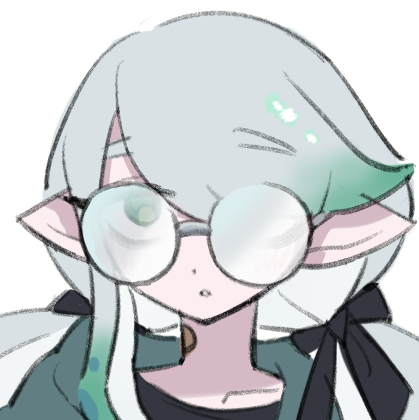
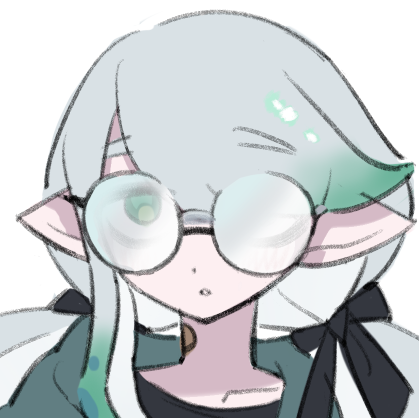
viper eng bio

diff --git a/data/oc-splatoon-en.js b/data/oc-splatoon-en.js
@@ -67,7 +67,7 @@ const SPLAT_CHARA_DATA_EN = {
             { Blade: "They met during the events in Splatoon 2, where a misunderstanding made them rivals for a while. They made up in the end and quickly became close friends. Axel often calls him 'B'." },
             { Xiu: "One of the bad friends who led Axel down the wrong path. Xiu has apologized, but Axel has never fully forgiven him, so things between them are still a bit awkward." },
             { Edd: "Axel barely counts him as a friend. Their personalities clash, so they butt heads a lot, and Axel especially hates how rude Edd is to Blade." },
-            { Viper: "They met as enemies during the events in Splatoon 2. Both are stubborn and hate losing, so they argue nonstop whenever they run into each other. Axel thinks Viper is just a loudmouthed [[Octarians|Octarian]] who needs his ass kicked." },
+            { Viper: "They met as enemies during the events in Splatoon 2. Both are stubborn and hate losing, so they argue nonstop whenever they run into each other. Axel thinks Viper is just a loudmouthed [[Octarian Army|Octarian]] who needs his ass kicked." },
             { Elise: "His younger sister. They grew up together and bicker all the time. She's always nagging him and smacking him on the head but they care about each other a lot." },
             { Marie: "They met during the events in Splatoon 2. He found her bossy, naggy and annoying, but they slowly became friends. He often calls her \"granny\" and has taken plenty of hits from her wagasa parasol for it." }
         ],
@@ -300,23 +300,23 @@ const SPLAT_CHARA_DATA_EN = {
         "Viper" : { 
             name: "Viper",
             summary: [
-                "一二代主線中的常駐敵人。在章魚軍團出生，有著非凡高超的機器人工程知識和技術，年紀小小就會自製無人機，後來成為DJ將軍的專屬工程師，很多章魚兵使用的兵器都是他設計的。上級甚至給他一間研究室用來讓他研發機械兵器。一代跟二代主線中他一直都在前線拿自己的各種兵器干擾主角。在軍團瓦解後跟幾個軍團研究員一起轉移到V8科研中心工作，是機械工程部門的首席開發員。",
-                "是個充滿野心的狂妄傢伙，對自己做的機器人跟兵器非常自豪，最愛狂吹自己的作品。總是自己行動，平日也待在個人研究室不出來，也幾乎不和其他軍團成員合作，更喜歡跟機器人互動。個性固執像蟑螂一樣，就算計畫失敗也不會輕易放棄，堅信世上沒有自己打不倒的英雄跟自己修不好的BUG。"
+                "A recurring enemy in the main stories of Splatoon 1 and 2. Born and raised in the [[Octarian Army]], he was a robotics prodigy who was already building his own drones as a kid. He later became DJ Octavio's personal engineer and designed many of the weapons specifically for him. He was even given his own lab to develop his machinery. In the main stories, he kept showing up with his latest creations to get in the heroes' way. After the Army fell apart, he got to join [[Vector 8 Research Institute]] with a few other engineers and researchers in the Army, and he is now the lead developer of the Mechanical Engineering Department.",
+                "He is a cocky, arrogant octoling who is extremely proud of his robots and weapons, and he loves to brag about them. He likes to work alone and rarely leaves his personal lab. He almost never teams up with anyone, since he'd much rather spend his time with his robots. He's also incredibly stubborn and never knows when to quit. When his plans fail, he always comes back with more. He is convinced that there's no hero he can't beat and no bug he can't fix."
             ],
             notes: [
-                "他代表的按鈕是音量+鍵，名字中的V對應volume（音量），p對應plus（加）",
-                "他跟小布同齡",
-                "這個角色的氣質參考了《決戰少林》的截使者﹑《飛哥與小佛》的杜芬舒斯﹑還有《音速小子》系列的蛋頭博士"
+                "He represents the volume up button. The V in his name stands for volume, and the p stands for plus.",
+                "He's the same age as Blade.",
+                "His personality was inspired by Jack Spicer from Xiaolin Showdown, Dr. Doofenshmirtz from Phineas and Ferb, and Dr. Eggman from the Sonic series."
             ],
             relationships: [
-                {"DJ Octavio": "自己的上司跟事業生活的榜樣，從小就對對方非常崇拜，會毫不遲疑的遵從他的命令。在成為將軍的專屬工程師後更是一直想要在他面前表現自己。" },
-                {Blade: "一代主線時作為敵人相遇，感覺對方不強卻總是打不贏而感到很不爽，視對方為自己一生的勁敵。後來因為實在交手多次而產生一種另類的友誼。"},
-                {Axel: "二代主線時作為敵人相遇，因為都很固執又不認輸，每次遇到時兩人總是會吵的沒完沒了。認為對方是３號的低配版。" },
-                {Tighe: "在軍團時期就認識，後來成為V8不同部門的同事，經常會在部門合作時一起開會。或許是因為同為菁英工程師，兩人意外的還挺和的來。"}
+                { "DJ Octavio": "His boss and his role model in both work and life. Viper has idolized him since he was a kid and follows his orders without a second thought. Ever since becoming his personal engineer, he's always trying to impress him." },
+                { Blade: "They met as enemies during the main story in Splatoon 1. Blade never seemed that strong, yet Viper could never beat him, feeling salty about this, he declared Blade his lifelong rival. After facing each other so many times, they've developed an odd kind of friendship, though Viper would never admit to it." },
+                { Axel: "They met as enemies during the main story in Splatoon 2. Both are stubborn and hate losing, so they argue nonstop whenever they run into each other. Viper thinks of him as a cheap knockoff of Agent 3." },
+                { Tighe: "They've known each other since their [[Octarian Army|Army]] days and now work in different departments at [[Vector 8 Research Institute|V8]], so they often end up in the same meetings. Maybe it's because they're both elite engineers, they get along surprisingly well." }
             ],
-            variant:[
-                {v8: "V8工作服"},
-                {octarian: "章魚軍團"}                
+            variant: [
+                { v8: "V8 Uniform" },
+                { octarian: "Octarian" }
             ]
         },
         "Tighe" : { 
